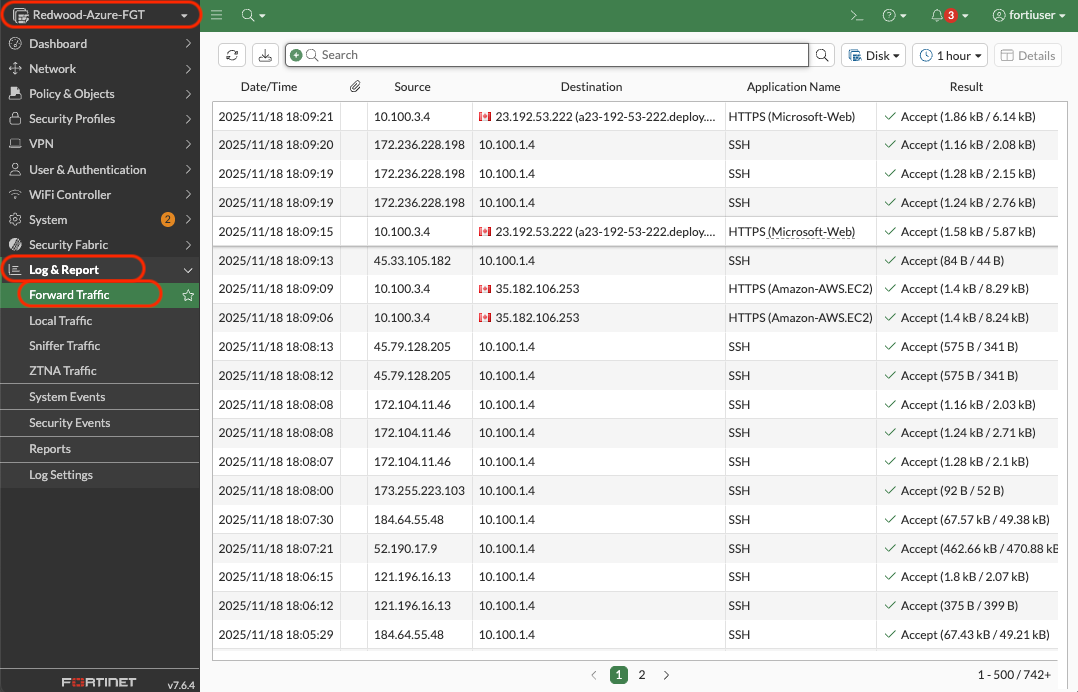
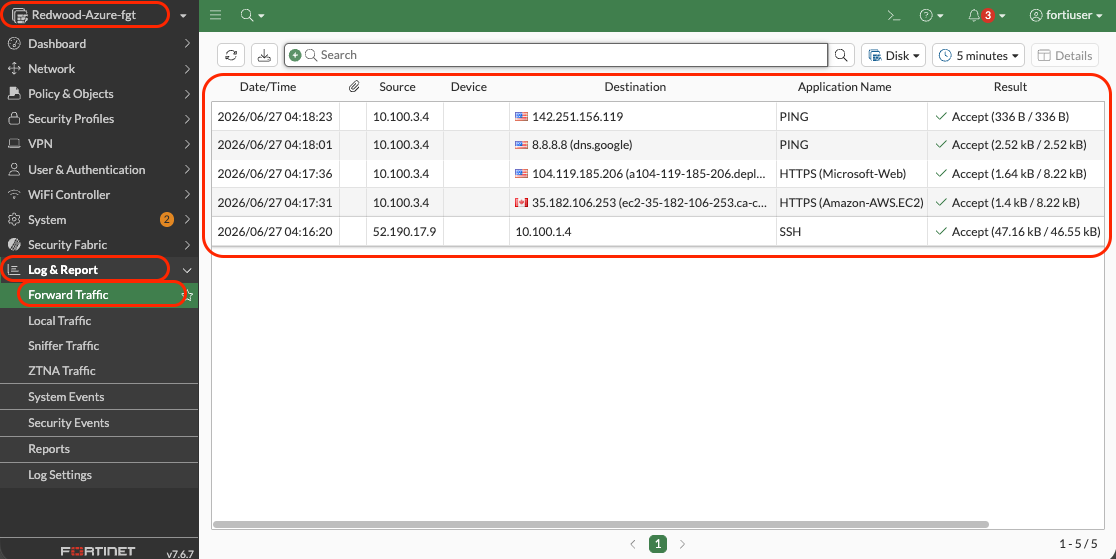
Lab 3 update

diff --git a/az-101-lab3/README.md b/az-101-lab3/README.md
@@ -248,6 +248,7 @@ We need a VM in Protected-Subnet to generate traffic and test FortiGate inspecti
      - **Source**: `all`
      - **Destination**: `all`
      - **Service**: `ALL`
+     - **NAT**: `Enabled`
      - **Log allowed traffic**: `All sessions`
 
    ![step4.1-screenshot](images/step4.1-screenshot.png)
@@ -332,11 +333,11 @@ Confirm FortiGate is inspecting traffic and logging it.
    - **Source IP:** Enter `10.100.3.4` (or your TestVM IP)
    - Click **Apply Filter**
 
-   ![step6.2-screenshot](images/step6.2-screenshot.png)
+   ![step6.2-animation](images/step6.2-animation.gif)
 
 3. **Examine Log Entries:**
    - Each row represents a traffic session
-   - Click on a log entry to see details
+   - Double-click on a log entry to see details
    - **Key fields to observe:**
      - **Source IP:** `10.100.3.4` (TestVM)
      - **Destination IP:** 8.8.8.8 or other internet IPs
@@ -344,16 +345,8 @@ Confirm FortiGate is inspecting traffic and logging it.
      - **Destination Interface:** port1 (External)
      - **Policy:** `internet_access`
      - **Action:** accept
-     - **NAT:** Yes (should show NAT was applied)
+     - **NAT:** Yes (shows NAT applied)
      - **Bytes Sent/Received:** Non-zero values
-
-4. **View Details:**
-   - Click on a log entry
-   - Detailed view shows:
-     - Original source IP: 10.100.3.4
-     - Translated source IP: FortiGate Public IP
-     - Full 5-tuple: src IP, src port, dst IP, dst port, protocol
-     - Policy matched
 
 ### Validation
 